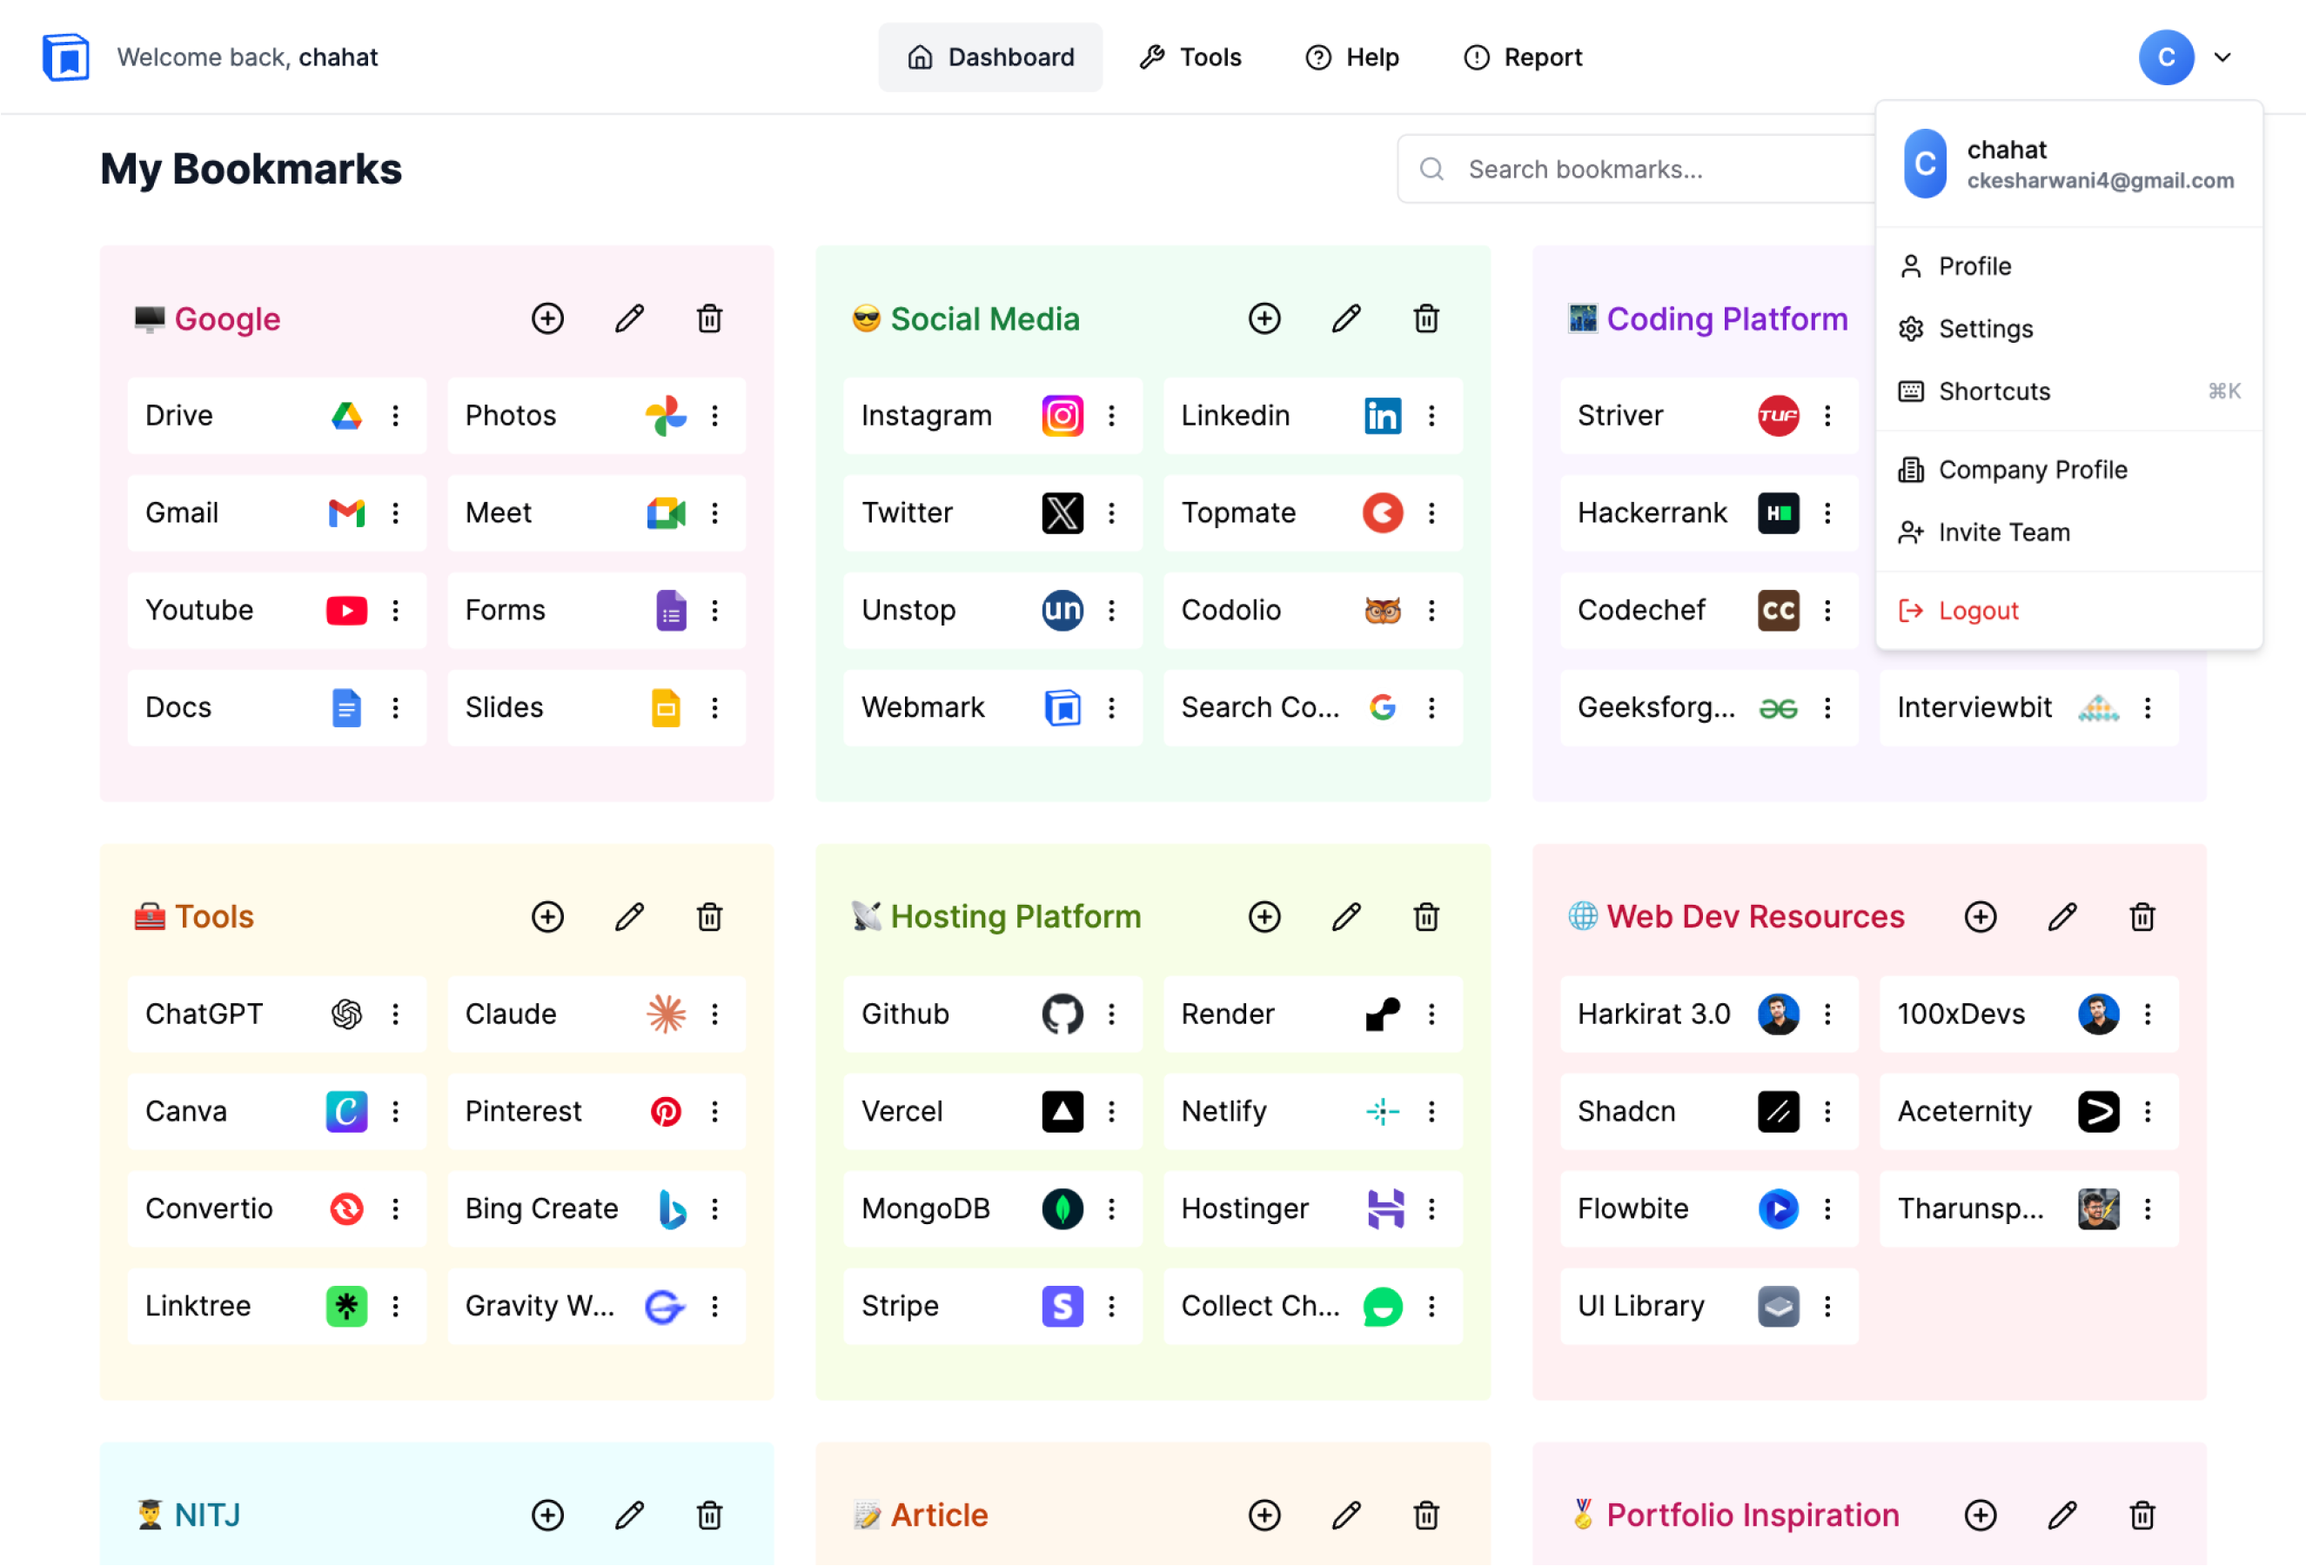
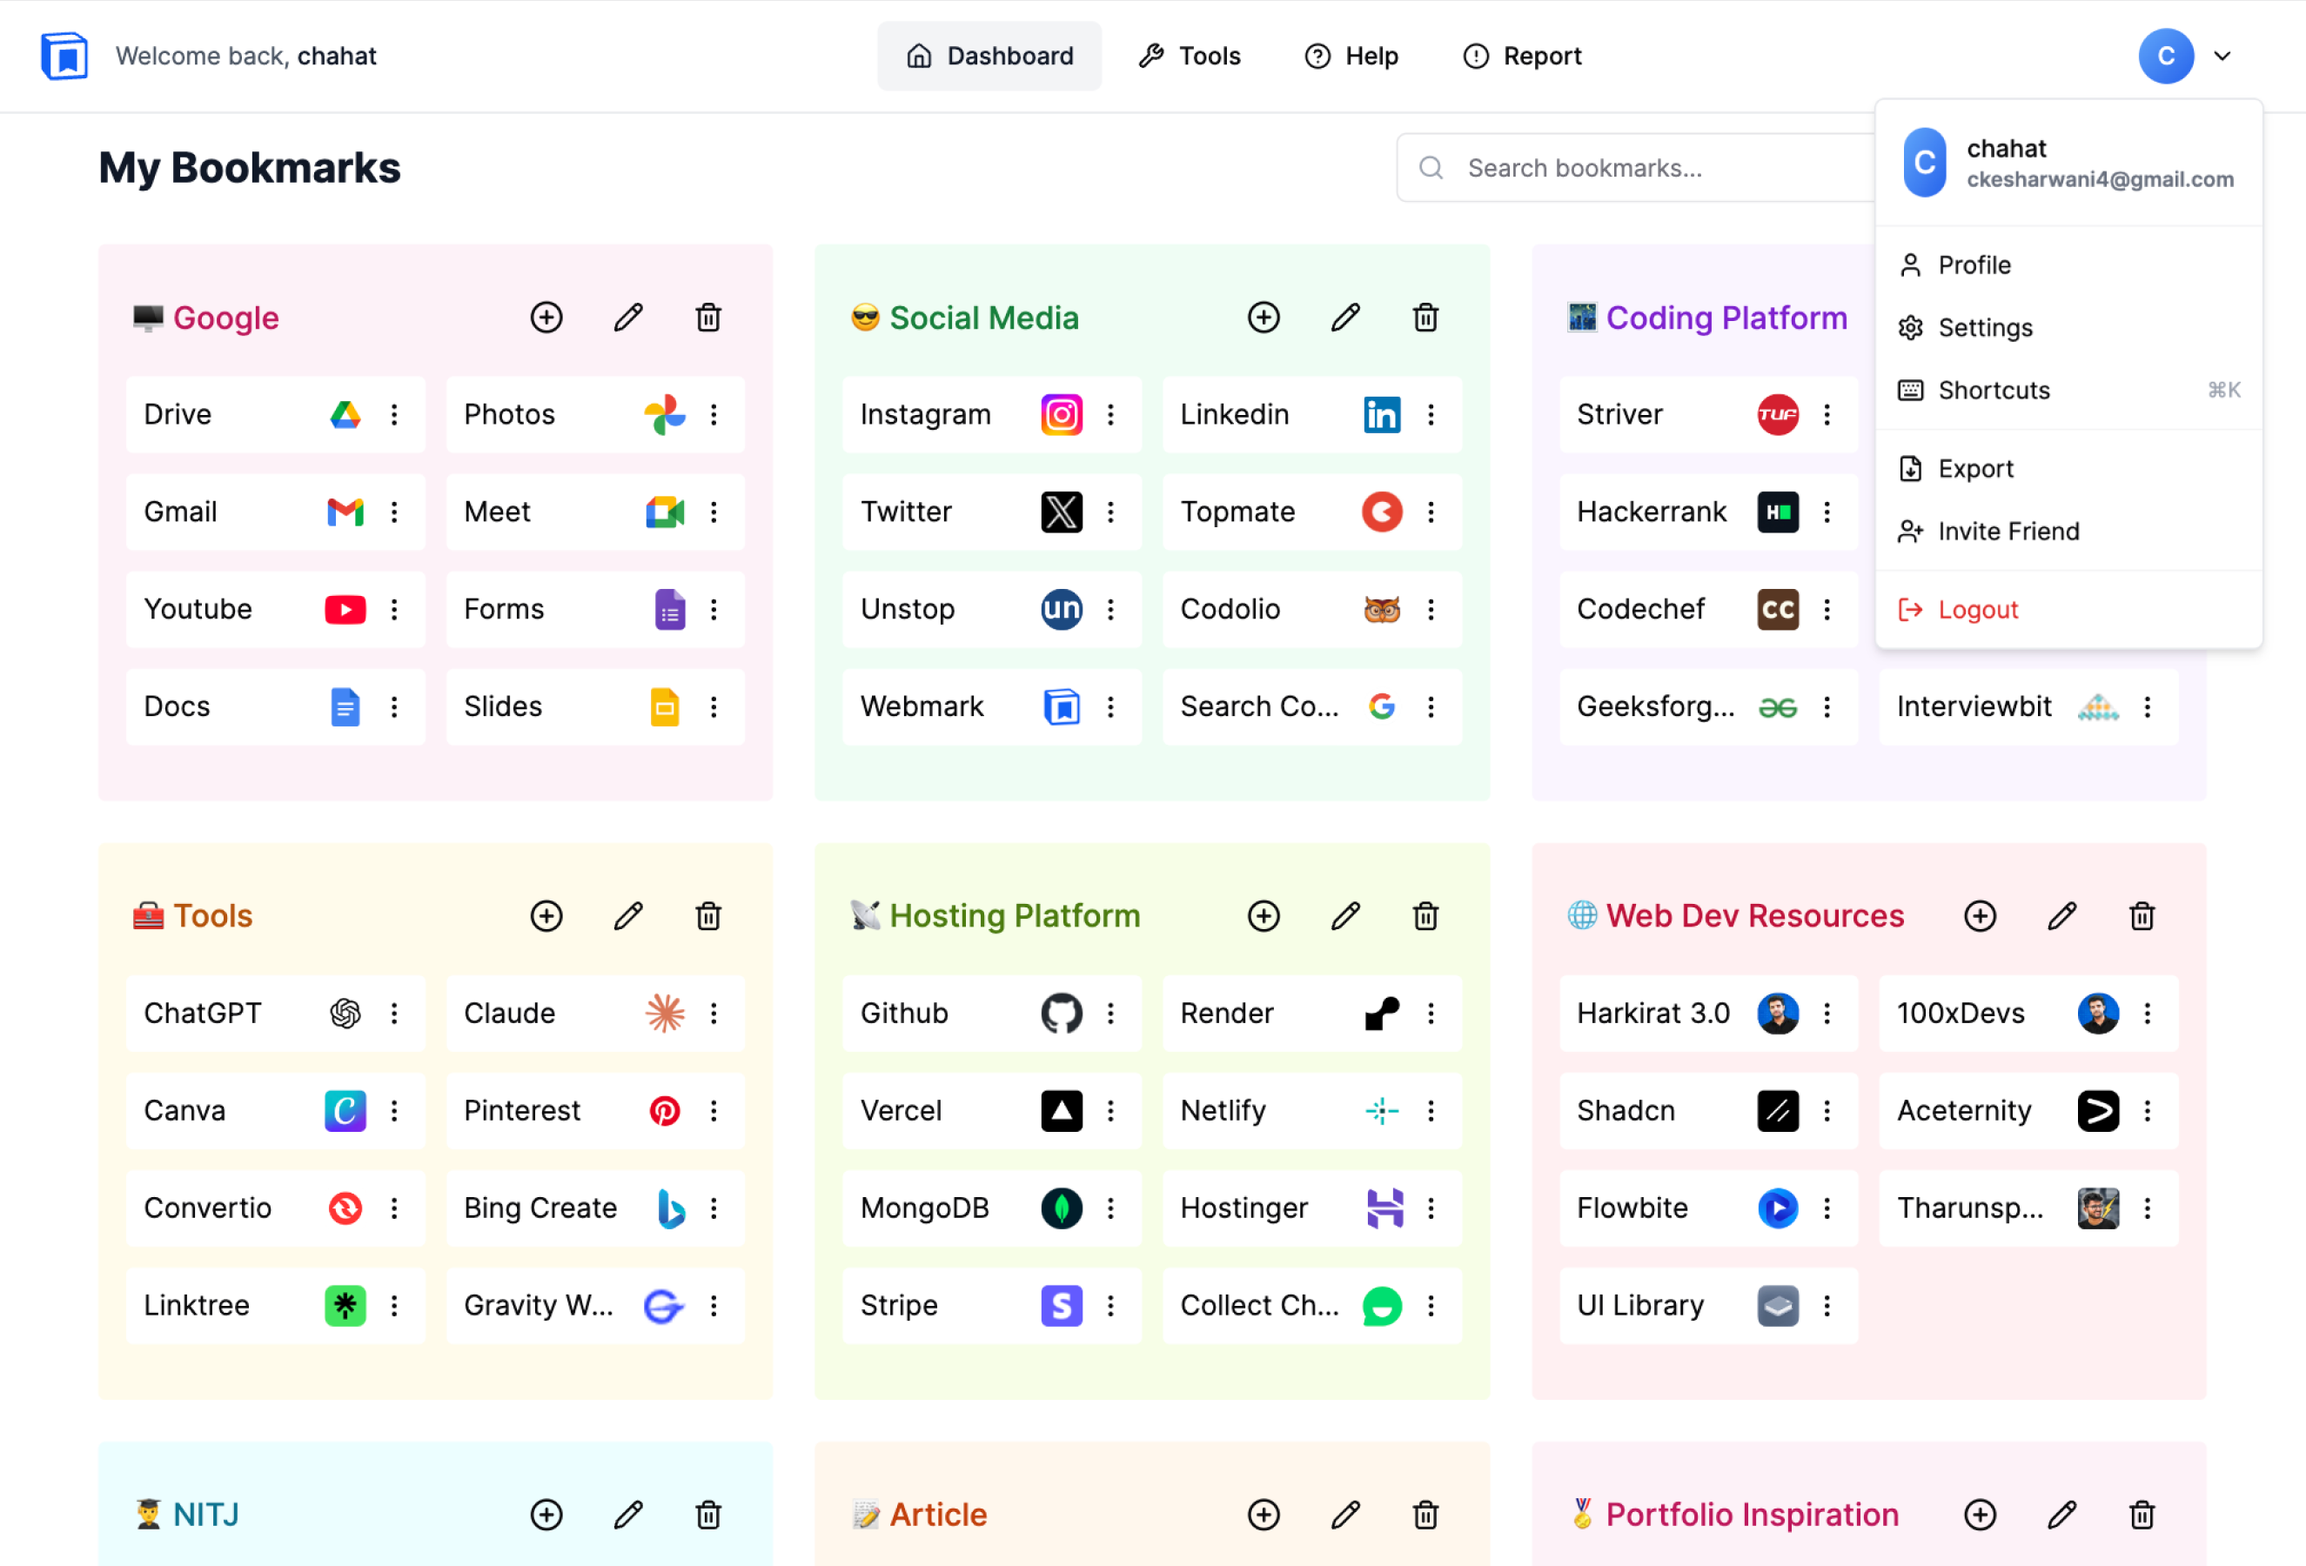
updated header dropdown and product image

diff --git a/client/src/components/Header.jsx b/client/src/components/Header.jsx
@@ -16,6 +16,7 @@ import {
   Menu,
   X,
   ChevronDown,
+  Lock,
 } from "lucide-react";
 import {
   DropdownMenu,
@@ -55,18 +56,44 @@ const Header = () => {
   ];
 
   const userMenuItems = [
-    { label: "Profile", icon: User },
-    { label: "Settings", icon: Settings },
-    { label: "Shortcuts", icon: Keyboard, shortcut: "⌘K" },
+    {
+      label: "Profile",
+      icon: User,
+      comingSoon: true,
+      onClick: () => {}, // Placeholder for future functionality
+    },
+    {
+      label: "Settings",
+      icon: Settings,
+      comingSoon: true,
+      onClick: () => {}, // Placeholder for future functionality
+    },
+    {
+      label: "Shortcuts",
+      icon: Keyboard,
+      shortcut: "⌘K",
+      comingSoon: true,
+      onClick: () => {}, // Placeholder for future functionality
+    },
     null, // Separator
-    { label: "Export", icon: FileDown },
+    {
+      label: "Export",
+      icon: FileDown,
+      comingSoon: true,
+      onClick: () => {}, // Placeholder for future functionality
+    },
     {
       label: "Invite Friend",
       icon: UserPlus,
       onClick: () => setIsShareModalOpen(true),
     },
     null, // Separator
-    { label: "Logout", icon: LogOut, onClick: logout, danger: true },
+    {
+      label: "Logout",
+      icon: LogOut,
+      onClick: logout,
+      danger: true,
+    },
   ];
 
   if (loading) return <Loader />;
@@ -163,15 +190,23 @@ const Header = () => {
                     <DropdownMenuItem
                       key={index}
                       onClick={item.onClick}
+                      disabled={item.comingSoon}
                       className={cn(
-                        "flex items-center gap-2 cursor-pointer p-2",
-                        item.danger && "text-red-600"
+                        "flex items-center gap-2 cursor-pointer p-2 relative group",
+                        item.danger && "text-red-600",
+                        item.comingSoon && "opacity-60 hover:opacity-70"
                       )}>
                       <item.icon className="h-4 w-4" />
                       <span>{item.label}</span>
                       {item.shortcut && (
                         <span className="ml-auto text-xs text-gray-400">
                           {item.shortcut}
+                        </span>
+                      )}
+                      {item.comingSoon && (
+                        <span className="ml-auto text-[10px] font-medium text-blue-500 bg-blue-50 px-1.5 py-0.5 rounded-full flex items-center gap-1">
+                          <Lock className="h-3 w-3" />
+                          Soon
                         </span>
                       )}
                     </DropdownMenuItem>
